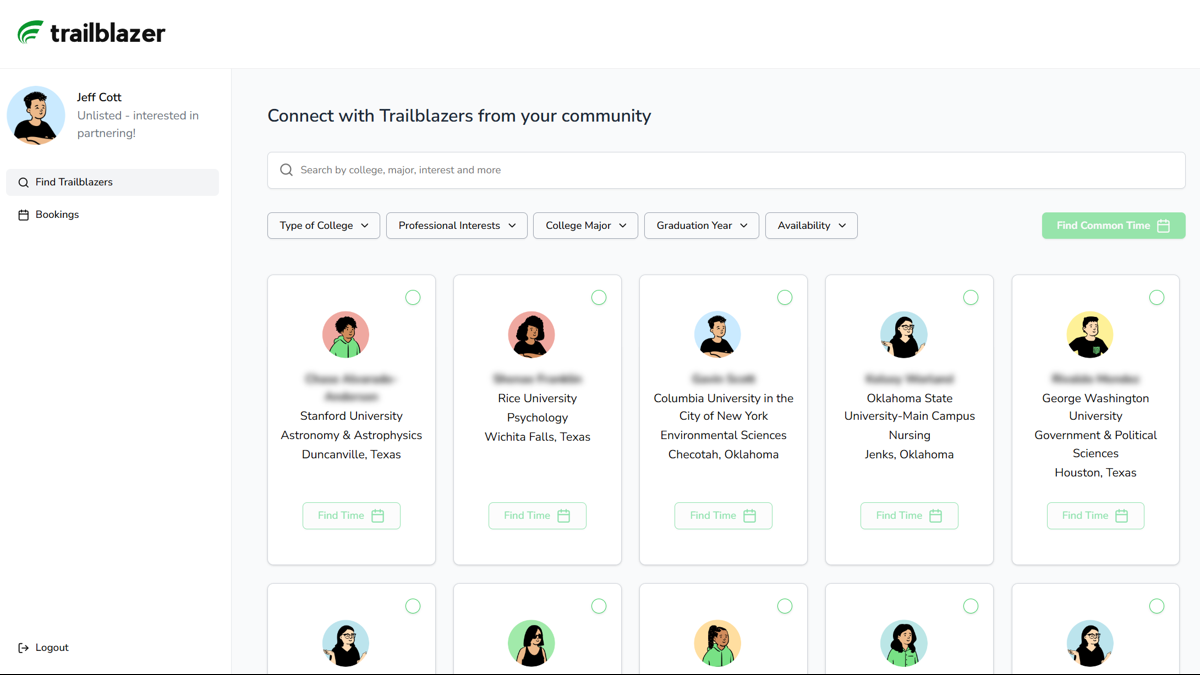
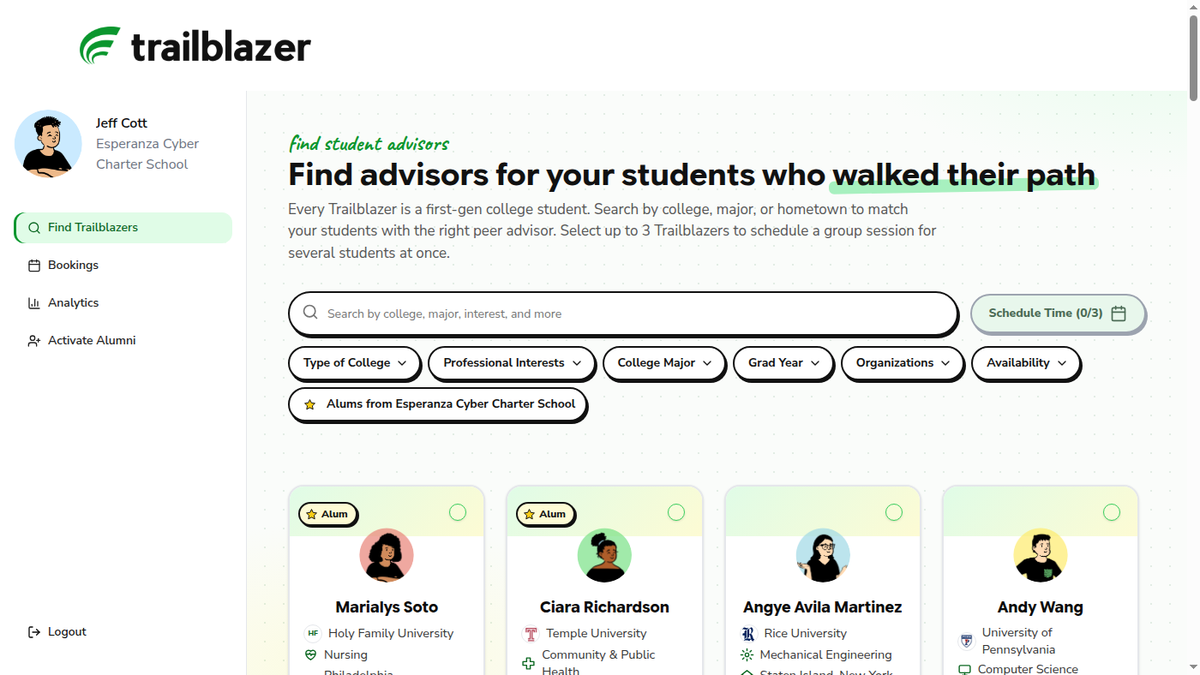
Home: Create Your Profile goes to signup flow

diff --git a/index.html b/index.html
@@ -279,7 +279,7 @@ st.forEach(function(e){e.onclick=function(){go(+e.dataset.i)}});var q=location.s
 <p>We're built for those too often left to figure it out alone: students who are the first in their families to take this on, and educators stretched too thin to reach everyone.</p>
 <a class="btn g inv stk" href="about/">Learn More</a></div></div></section>
 <section class="refband"><svg class="band-trail" viewBox="0 0 1000 200" preserveAspectRatio="none" aria-hidden="true"><path d="M-20 170 C 160 190, 260 60, 460 110 S 760 200, 1020 30"/></svg><img class="ln" src="assets/img/fed519_f754dcf3aea940789adb7bfd3af3f8ac.png" alt=""><div class="wrap"><div><p class="k">JOIN THE TRAILBLAZER COMMUNITY</p><h2>Create your profile</h2><p>Create your profile to connect with college advisors and be first to learn about new Trailblazer opportunities!</p></div>
-<div class="refcard"><div class="ctas"><a class="btn g" href="https://app.trailblazergo.com/start" target="_blank" rel="noopener">Create Your Profile</a><a class="btn ghost" href="#how-it-works">See How It Works</a></div></div></div></section>
+<div class="refcard"><div class="ctas"><a class="btn g" href="https://app.trailblazergo.com/" target="_blank" rel="noopener">Create Your Profile</a><a class="btn ghost" href="#how-it-works">See How It Works</a></div></div></div></section>
 </main>
 <footer class="ftr"><div class="wrap">
 <div><a class="logo" href="./"><img src="assets/img/logo-wordmark.png" alt="Trailblazer" width="233" height="37"></a>
